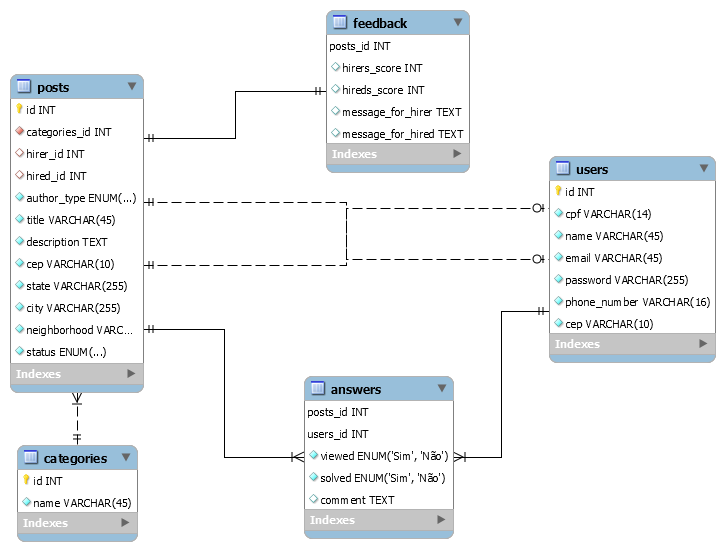
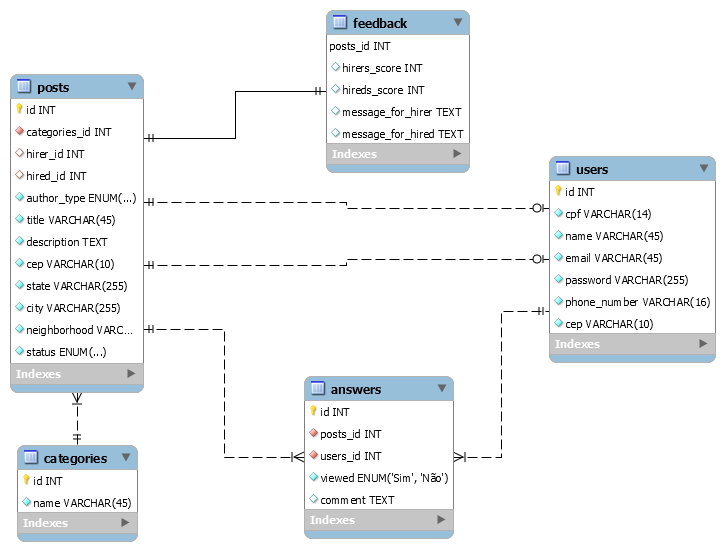
Fix remaining errors

Changed region(s): [[0.4248, 0.7405, 0.6069, 0.8947]]

diff --git a/Trampo/resources/views/post/rate.blade.php b/Trampo/resources/views/post/rate.blade.php
@@ -11,21 +11,21 @@
         <div class="col-md-10 offset-1">
             <div class="card">
                 <div class="card-body">
-                    <form action="{{ route('feedbacks.store', ['i_hired'=> $i_hired, 'id'=> $post->id, 'user'=> $answer->users_id]) }}" method="get">
+                    <form action="{{ route('feedbacks.store', ['i_hired'=> $i_hired ? '1' : '0', 'id'=> $post->id, 'user'=> $answer->users_id]) }}" method="get">
                     @csrf
                         <div class="row">
                             <div class="col-md-9">
-                                <h4>{{ $i_hired ? 'Quem realizou meu serviço' : 'Quem me contratou' }}</h4>
-                                <p>{{ $i_hired ? $answer->name : $post->username }}</p>
+                                <h4>{{ $i_hired ? 'Prestador' : 'Contratante' }}</h4>
+                                <p>{{  $hire=='hirer' ?  ($i_hired ? $answer->name : $post->username) : ($i_hired ? $post->username : $answer->name)  }}</p>
                             </div>
                             <div class="col-md-3">
                                     <h4> </h4>
-                                    <button type="submit" class="btn btn-dark meu-botao">Avaliar {{ $i_hired ? 'Prestador' : 'Cliente'}}</button>
+                                    <button type="submit" class="btn btn-dark meu-botao">Avaliar {{ $i_hired ? 'Prestador' : 'Contratante'}}</button>
                             </div>
                         </div>
                         <div class="row mt-3">
                             <div class="col-md-6">
-                                    <h4>Qual nota você daria para este {{ $i_hired ? 'Prestador' : 'Cliente' }}?</h4>
+                                    <h4>Qual nota você daria para este {{ $i_hired ? 'Prestador' : 'Contratante' }}?</h4>
                                     <select name="grade" id="grade" class="form-control" required>
                                         <option value="0">0</option>
                                         <option value="1">1</option>
@@ -41,7 +41,7 @@
                                     </select>
                             </div>
                             <div class="col-md-6">
-                                    <h4>Deixe uma mensagem para {{ $i_hired ? $answer->name : $post->username }} (opcional)</h4>
+                                    <h4>Deixe uma mensagem para {{ $hire=='hirer' ?  ($i_hired ? $answer->name : $post->username) : ($i_hired ? $post->username : $answer->name) }} (opcional)</h4>
                                     <textarea class="form-control" name="message" cols="30" rows="10" placeholder="Insira sua mensagem aqui"></textarea>
                             </div>
                         </div>

diff --git a/Trampo/resources/views/feedbacks/show.blade.php b/Trampo/resources/views/feedbacks/show.blade.php
@@ -11,21 +11,21 @@
         <div class="col-md-10 offset-1">
             <div class="card">
                 <div class="card-body">
-                    <form action="{{ route('feedbacks.update',  ['i_hired'=> $i_hired?'1':'0', 'id'=> $feedback->id]) }}" method="get">
+                    <form action="{{ route('feedbacks.update',  ['i_hired'=> $i_hired ? '1':'0', 'id'=> $feedback->id]) }}" method="get">
                     @csrf
                         <div class="row">
                             <div class="col-md-9">
-                                <h4>{{ $i_hired ? 'Quem realizou meu serviço' : 'Quem me contratou' }}</h4>
+                                <h4>{{ $i_hired ? 'Prestador' : 'Contratante' }}</h4>
                                 <p>{{ $i_hired ? $feedback->hired : $feedback->hirer }}</p>
                             </div>
                             <div class="col-md-3">
                                     <h4> </h4>
-                                    <button type="submit" class="btn btn-dark meu-botao">Avaliar {{ $i_hired ? 'Prestador' : 'Cliente'}}</button>
+                                    <button type="submit" class="btn btn-dark meu-botao">Avaliar {{ $i_hired ? 'Prestador' : 'Contratante'}}</button>
                             </div>
                         </div>
                         <div class="row mt-3">
                             <div class="col-md-6">
-                                    <h4>Qual nota você daria para este {{ $i_hired ? 'Prestador' : 'Cliente' }}?</h4>
+                                    <h4>Qual nota você daria para este {{ $i_hired ? 'Prestador' : 'Contratante' }}?</h4>
                                     <select name="grade" id="grade" class="form-control" required>
                                         <option value="0">0</option>
                                         <option value="1">1</option>

diff --git a/Trampo/app/Http/Controllers/FeedbackController.php b/Trampo/app/Http/Controllers/FeedbackController.php
@@ -62,7 +62,7 @@ class FeedbackController extends Controller
         $post->status = 'Concluído';
 
         
-        if ($i_hired) {
+        if ($i_hired == '1') {
             $feedback->hireds_score = $request->grade;
             $feedback->message_for_hired = $request->message;
             $post->hired_id = $user;
@@ -78,12 +78,12 @@ class FeedbackController extends Controller
         Session::flash('message', 'Avaliação feita com sucesso!'); 
         Session::flash('alert-class', 'alert-success'); 
 
-        return redirect('publish');
+        return redirect('profile');
     }
 
     public function show($id)
     {
-        $feedback = Feedback::select('posts.id AS id', 'hirer.name AS hirer', 'hired.name AS hired', 'posts.title AS title')
+        $feedback = Feedback::select('posts.id AS id', 'posts.hirer_id AS hirer_id', 'hirer.name AS hirer', 'hired.name AS hired', 'posts.title AS title')
             ->join('posts', 'feedback.posts_id', 'posts.id')
             ->join('users AS hirer', 'posts.hirer_id', 'hirer.id')
             ->join('users AS hired', 'posts.hired_id', 'hired.id')
@@ -93,7 +93,10 @@ class FeedbackController extends Controller
                 ->orWhere('posts.hired_id', auth()->user()->id);
             })->first();
 
-        return view('feedbacks.show', ['feedback' => $feedback, 'i_hired' => $feedback->hirer_id == auth()->user()->id]);
+            
+        $i_hired = $feedback->hirer_id == auth()->user()->id;
+
+        return view('feedbacks.show', ['feedback' => $feedback, 'i_hired' => $i_hired]);
     }
 
     /**
@@ -123,7 +126,7 @@ class FeedbackController extends Controller
         Session::flash('message', 'Avaliação feita com sucesso!'); 
         Session::flash('alert-class', 'alert-success'); 
 
-        return redirect('publish');
+        return redirect('profile');
     }
 
     /**

diff --git a/Trampo/resources/views/post/index.blade.php b/Trampo/resources/views/post/index.blade.php
@@ -8,7 +8,7 @@
             <div class="card">
                 <div class="card-body">
                     <div class="row">
-                        <div class="col-md-3 text-center">
+                        <div class="col-md-2 text-center">
                             <h4>Autor</h4>
                             <p>{{ $post->username }}</p>
                         </div>
@@ -20,7 +20,7 @@
                             <h4>Categoria</h4>
                             <p>{{ $post->category }}</p>
                         </div>
-                        <div class="col-md-2 text-center">
+                        <div class="col-md-3 text-center">
                             <h4>Local</h4>
                             <p>{{ $post->neighborhood . ' - ' . $post->city . ' - ' . $post->state }}</p>
                         </div>
@@ -34,7 +34,7 @@
                         </div>
                     </div>
                     @if ($post->userid == auth()->user()->id)
-                        <button type="button" class="btn btn-dark" data-toggle="modal" data-target="#modalExcluir">Excluir Publicação</button>
+                        <button type="button" class="btn btn-dark" data-toggle="modal" data-target="#modalExcluir" {{$post->status == 'Concluído' ? 'disabled' : ''}}>Excluir Publicação</button>
                     @else
                         <a class="btn btn-dark" href="{{route('users.other_profile',['id'=>$post->userid])}}">Ver Perfil</a>
                     @endif

diff --git a/Trampo/resources/views/user/index.blade.php b/Trampo/resources/views/user/index.blade.php
@@ -3,9 +3,6 @@
 @section('title', ' - Perfil')
 
 @section('content_header')
-    @if (Session::has('menssagem'))
-    <div class="alert {{Session::get('classe-alerta','alert-info')}}">{{Session::get('menssagem')}}</div>
-    @endif
     <h1 class="m-0 text-dark">Perfil de {{$user->name}}</h1>
 @stop
 
@@ -14,6 +11,9 @@
         <div class="col-md-6">
             <div class="card">
                 <div class="card-body">
+                    @if (Session::has('message'))
+                    <div class="alert {{Session::get('alert-class','alert-info')}}">{{Session::get('message')}}</div>
+                    @endif
                     <div class="row">
                         <div class="col-md-6">
                             <label>Nome</label>
@@ -229,7 +229,7 @@
                                                     {{$post->username}} • {{$post->category}}
                                                 </p>
                                             </td>
-                                            <td><a class="btn btn-dark meu-outro-botao" href="{{ route('posts.show', ['hire' => 'hired', 'id' => $post->id]) }}">Ver mais</a></td>
+                                            <td><a class="btn btn-dark meu-outro-botao" href="{{ route('posts.show', ['hire' => 'hirer', 'id' => $post->id]) }}">Ver mais</a></td>
                                         </tr>
                                     @endforeach
                                 </tbody>

diff --git a/Trampo/app/User.php b/Trampo/app/User.php
@@ -63,15 +63,15 @@ class User extends Authenticatable
             if($nova_senha == $confirmacao_nova_senha){
                 $user->password = Hash::make($nova_senha);
                 $user->save();
-                Session::flash('menssagem','A senha foi alterada com sucesso.');
-                Session::flash('classe-alerta', 'alert-success');
+                Session::flash('message','A senha foi alterada com sucesso.');
+                Session::flash('alert-class', 'alert-success');
             }else{
-                Session::flash('menssagem','A nova senha não coincide com a confirmação da nova senha.');
-                Session::flash('classe-alerta', 'alert-danger');
+                Session::flash('message','A nova senha não coincide com a confirmação da nova senha.');
+                Session::flash('alert-class', 'alert-danger');
             }
         }else{
-            Session::flash('menssagem','A senha atual informada não coincide com a correta.');
-            Session::flash('classe-alerta', 'alert-danger');
+            Session::flash('message','A senha atual informada não coincide com a correta.');
+            Session::flash('alert-class', 'alert-danger');
         }
     }
 

diff --git a/Trampo/database/migrations/2019_11_30_165058_create_answers_table.php b/Trampo/database/migrations/2019_11_30_165058_create_answers_table.php
@@ -14,12 +14,11 @@ class CreateAnswersTable extends Migration
     public function up()
     {
         Schema::create('answers', function (Blueprint $table) {
+            $table->bigIncrements('id');
 		    $table->bigInteger('posts_id')->unsigned();
 		    $table->bigInteger('users_id')->unsigned();
 		    $table->enum('viewed', ['Sim',  'Não'])->default('Não');
 		    $table->text('comment')->nullable();
-		    
-		    $table->primary('posts_id', 'users_id');
 		
 		    $table->index('users_id','fk_posts_has_users_users1_idx');
 		    $table->index('posts_id','fk_posts_has_users_posts1_idx');

diff --git a/Trampo/app/Http/Controllers/PostController.php b/Trampo/app/Http/Controllers/PostController.php
@@ -46,7 +46,7 @@ class PostController extends Controller
         Session::flash('message', 'Publicação criada com sucesso!'); 
         Session::flash('alert-class', 'alert-success'); 
 
-        return redirect('publish');
+        return redirect('profile');
 
     }
     
@@ -58,7 +58,7 @@ class PostController extends Controller
         Session::flash('message', 'Publicação excluída com sucesso!'); 
         Session::flash('alert-class', 'alert-success'); 
 
-        return redirect('publish');
+        return redirect('profile');
     }
 
     public function show($hire, $id)

diff --git a/Trampo/resources/views/post/publish.blade.php b/Trampo/resources/views/post/publish.blade.php
@@ -11,9 +11,6 @@
         <div class="col-10 offset-1">
             <div class="card">
                 <div class="card-body">
-                    @if(Session::has('message'))
-                    <p class="alert {{ Session::get('alert-class', 'alert-info') }}">{{ Session::get('message') }}</p>
-                    @endif
                     <form action="{{ route('posts.store') }}" method="post">
                     @csrf
                         <div class="form-group">

diff --git a/Trampo/config/adminlte.php b/Trampo/config/adminlte.php
@@ -134,7 +134,7 @@ return [
 
     'use_route_url' => false,
 
-    'dashboard_url' => '/',
+    'dashboard_url' => 'profile',
 
     'logout_url' => 'logout',
 
@@ -195,8 +195,6 @@ return [
             'text'        => 'Avaliações',
             'url'         => 'feedbacks',
             'icon'        => 'far fa-fw fa-comment-alt',
-            'label'       => 4,
-            'label_color' => 'success',
         ],
         ['header' => 'Publicações'],
         [

diff --git a/Trampo/app/Http/Controllers/UserController.php b/Trampo/app/Http/Controllers/UserController.php
@@ -59,8 +59,8 @@ class UserController extends Controller
 
         $user->save();
 
-        Session::flash('menssagem','Dados alterados com sucesso.');
-        Session::flash('classe-alerta', 'alert-success');
+        Session::flash('message','Dados alterados com sucesso.');
+        Session::flash('alert-class', 'alert-success');
 
         return redirect('profile');
     }
